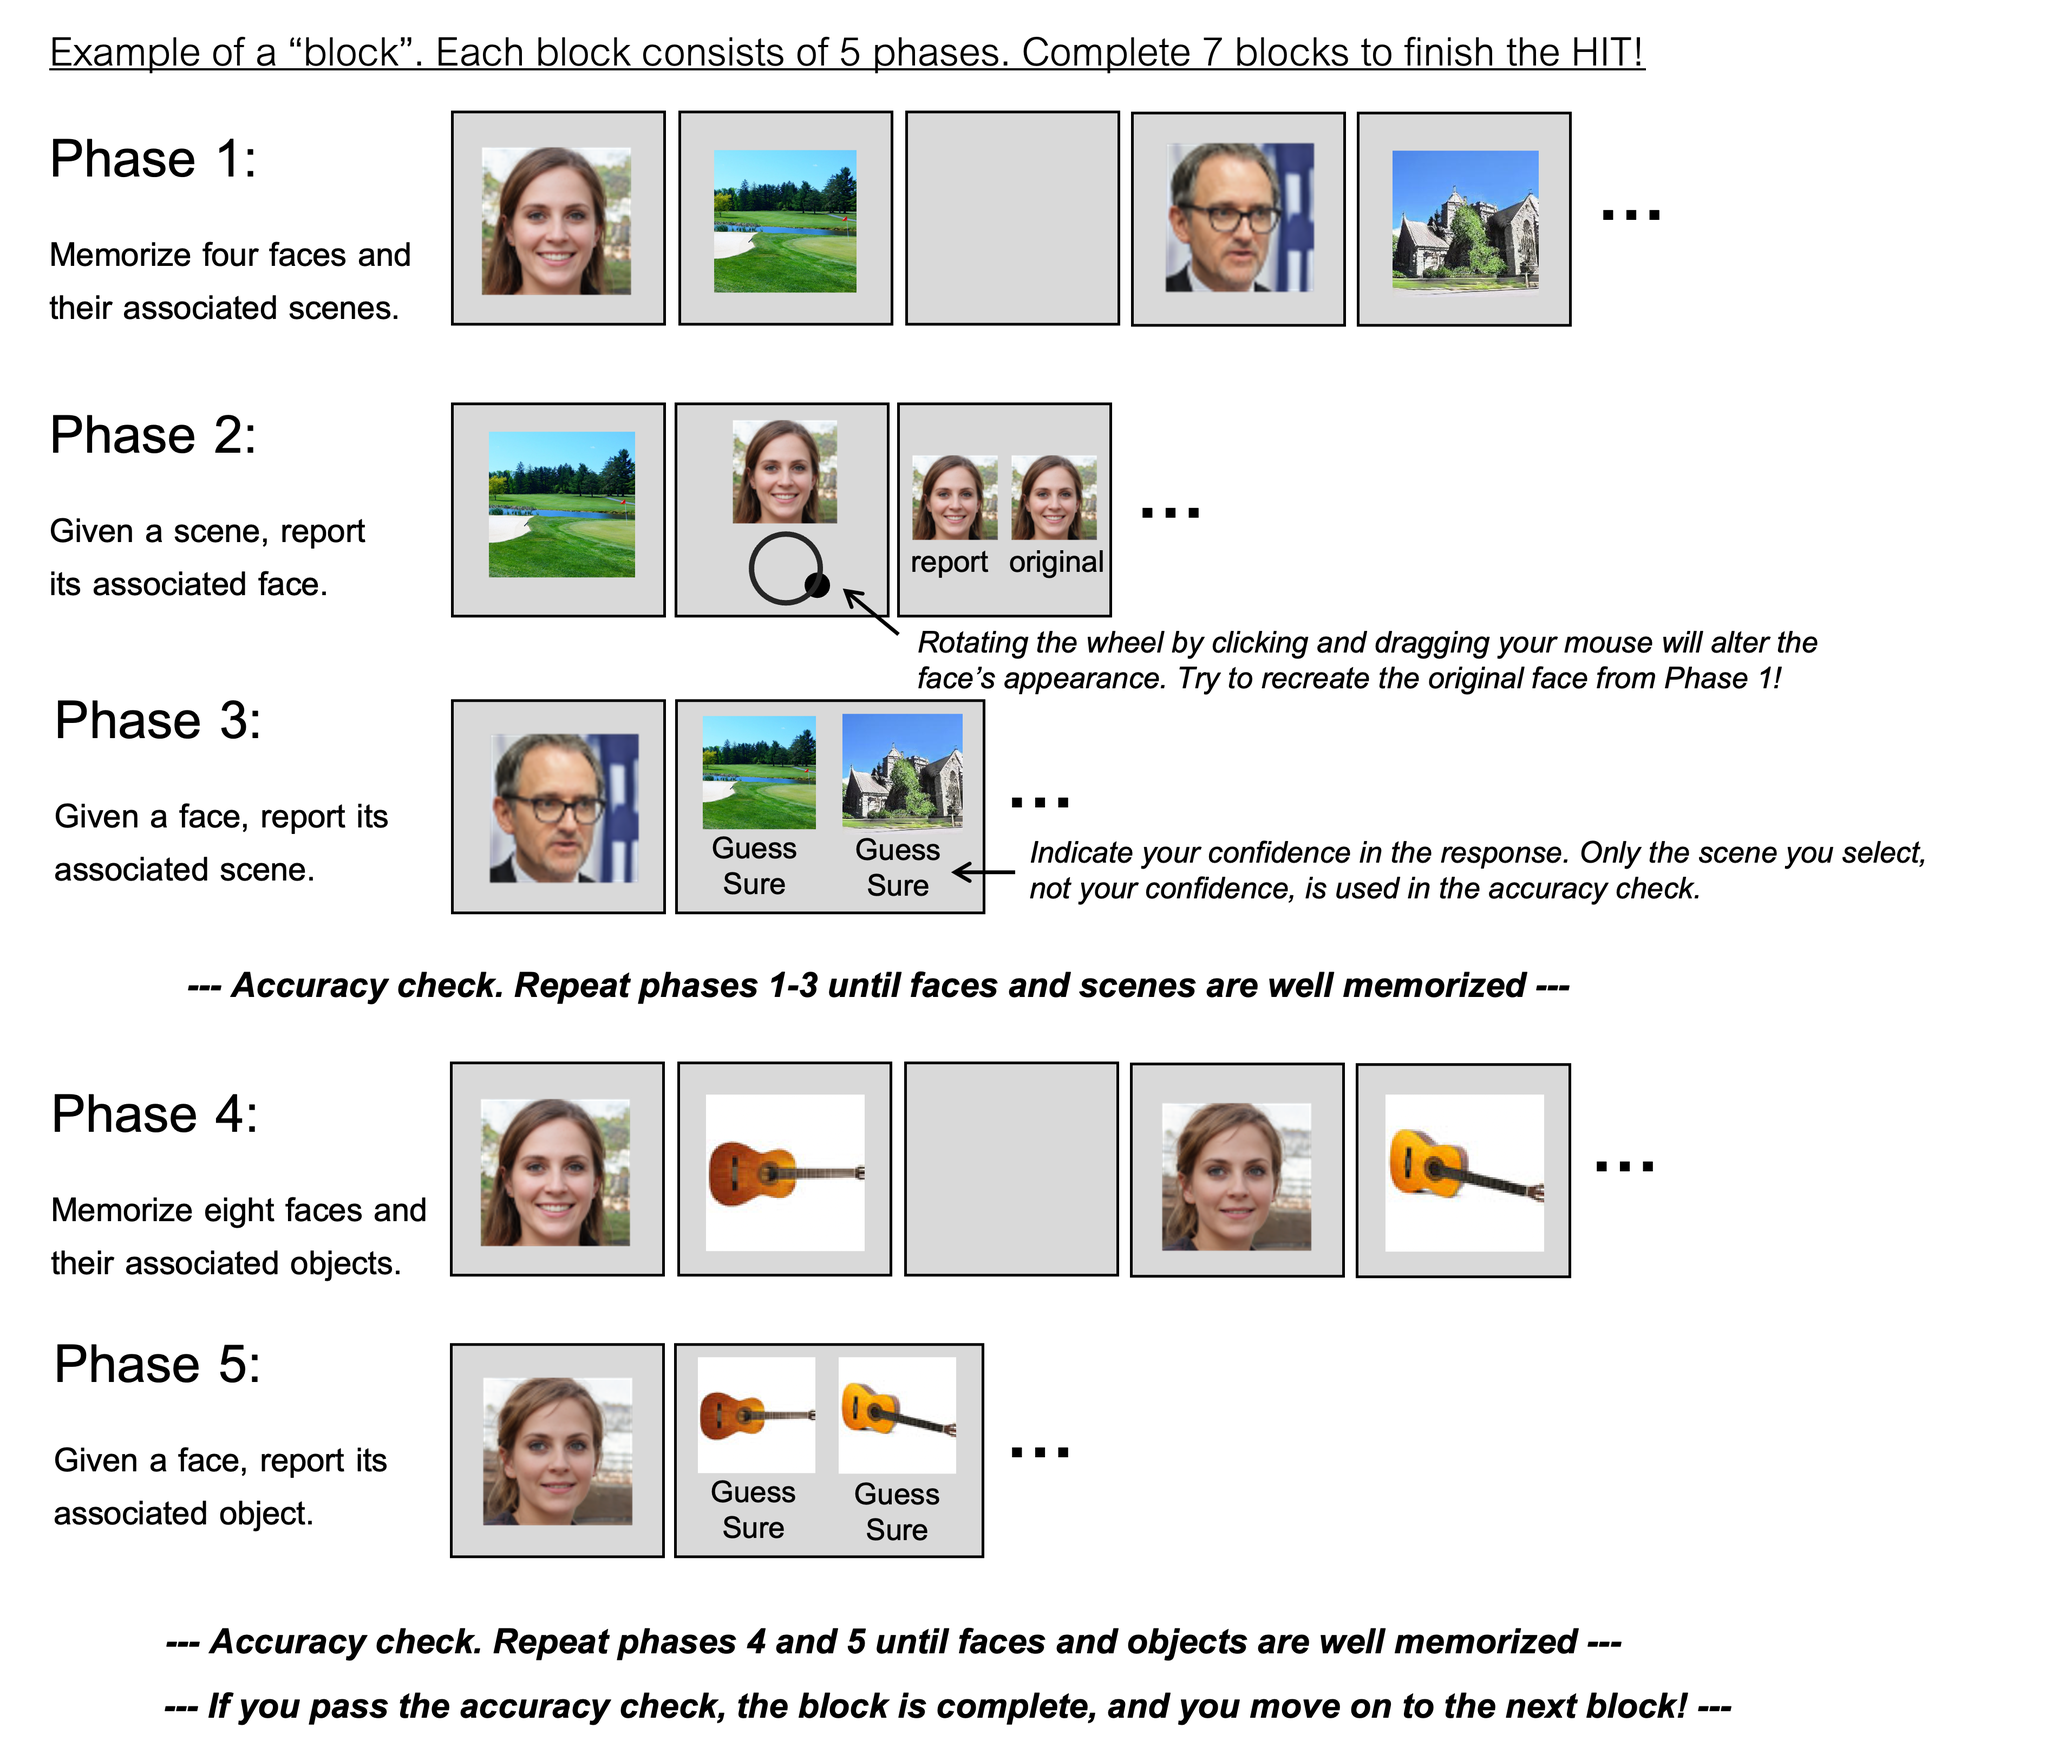
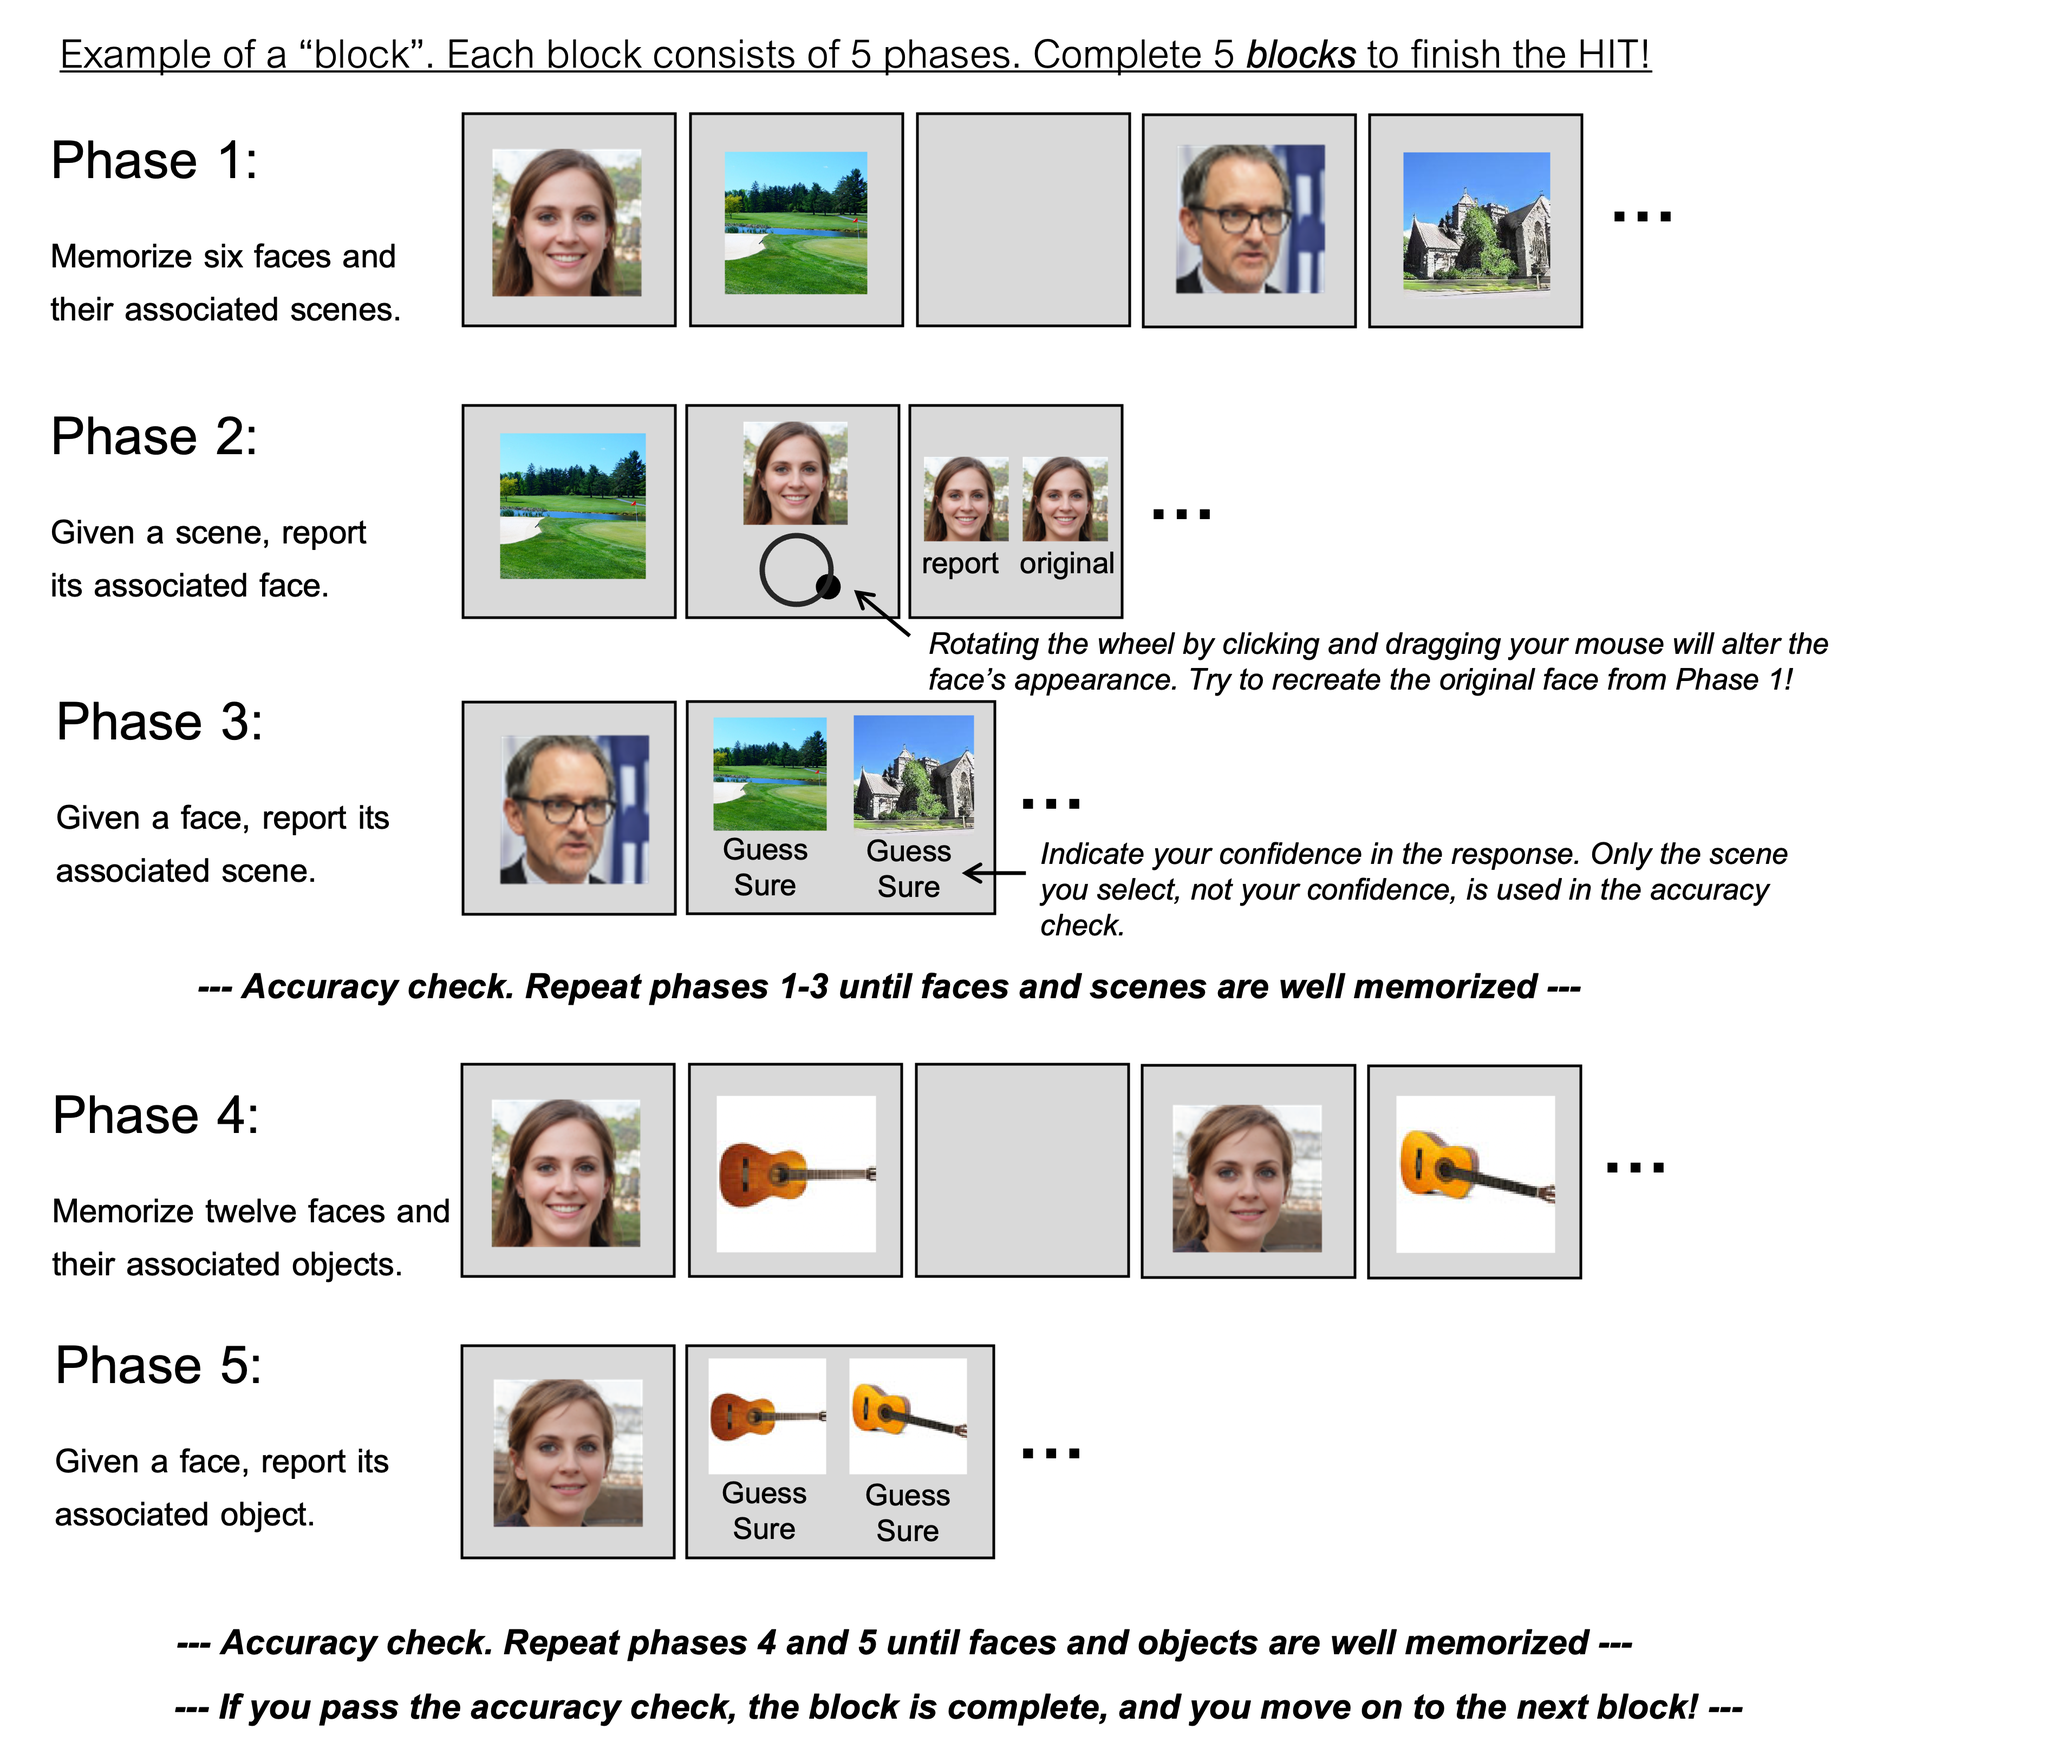
updated instructs

diff --git a/mturk/FaceRepulsion_turk/index.html b/mturk/FaceRepulsion_turk/index.html
@@ -39,8 +39,8 @@
       } else if (!(parseFloat($('#age').val()) >= 18)) {
         alert('Please input a valid age. You must be at least 18 years old to participate.')
       } else {
-        if ($('#age').val() > 35) {
-          $('body').html('<center><b>Unfortunately, this experiment does not allow participants over 35 years old (we separately study older populations).<br><br>Please return this HIT.<br><br>You will not be paid if you try again and change your age.</b></center>');
+        if (($('#age').val() > 35) || (document.getElementById('acuity').checked==false) || (document.getElementById('colorvision').checked==false)) {
+          $('body').html('<center><b>Unfortunately, this experiment does not allow participants over 35 years old (we separately study older populations) or participants lacking color vision or normal visual acuity.<br><br>Please return this HIT.<br><br>You will not be paid if you try again and change your responses.</b></center>');
         } else {
           $('#info').hide()
           document.body.scrollTop = document.documentElement.scrollTop = 0;
@@ -483,20 +483,6 @@
     </b></center>
   </div>
 
-  <!-- Instructions page4 -->
-  <!-- <div id="instructions4" style="display:none">
-    <center><b>
-        <p>Importantly, we want you to try to similarly exert effort to memorize all images, regardless of whether "remember" or "forget" appears after the image is presented.</p>
-        <p align="center"><img src="https://maxceylab.github.io/stimuli/instruction_images/fake_bars2.png" width="350px"></p>
-        <p>Try your best to have similar memory performance across "remember" and "forget" images, similar to the figure above.</p>
-        <p>You will receive a bonus of $1 if your accuracy for recognizing "remember" images is within 2% of your accuracy for "forget" images.<br>Note: You must also perform better than random chance in identifying images and their associated words in order to earn this bonus.</p>
-        <p>If your behavior is deemed obviously bot-like or noncompliant with instructions, such as always clicking the same button throughout memory testing, then your payment for the HIT may be denied.</p>
-      </b></center>
-    <p style="text-align: center"><a href="javascript:void(0);" onclick="$('#instructions4').hide();document.body.scrollTop = document.documentElement.scrollTop = 0;StartExperiment();" id="TextButton">Start Experiment</a></p>
-    <center>
-      <p id=loading>Images loading... Please wait a minute or refresh the page.</p>
-  </div> -->
-
   <!-- Subject info screen -->
   <div id="info" style='display:none; text-align: left; margin-left: 25%'>
     <h1>Subject Information</h1>
@@ -529,11 +515,10 @@
     let formtxt = "https://www.mturk.com/mturk/externalSubmit?assignmentId="+ASSIGNMENTID+"&foo=bar"
     document.getElementById('turkSubmit').action = formtxt
   </script>
-      <!-- submit to turk
-      https://workersandbox.mturk.com/mturk/externalSubmit
-      https://www.mturk.com/mturk/externalSubmit
-      -->
-
+  <!-- submit to turk
+  https://workersandbox.mturk.com/mturk/externalSubmit
+  https://www.mturk.com/mturk/externalSubmit
+  -->
   <!-- Screen after submitting expt -->
   <div id="done" style='display:none; text-align: left; margin-left: 25%'>
     <div id="doneText">
@@ -595,9 +580,9 @@
     var deg_corr = 999;
     var deg_rotation = 0;
     let curTrial = 0;
-    let numTrials = 4;
+    let numTrials = 6;
     let curBlock = 0;
-    let numBlocks = 7;
+    let numBlocks = 5;
     let displayTime = 1000; //1000
     let feedbackTime = 2000;
     let isi1Time = 200;
@@ -605,6 +590,7 @@
     var keyCode = 0;
     var cur_button = 0;
     var cur_phase = 0;
+    var block_tracker = [];
     var phase1_faces = [];
     var phase1_associates = [];
     var phase2_faces = [];
@@ -626,11 +612,9 @@
     var phase5_rts = [];
     var block_accuracy = 100;
     var block_binary = [];
-    var scene_loops = 0;
-    var obj_loops = 0;
     let start_time = 0;
 
-    var face_order_full = derange(counter(0,25)) // number of face triangles
+    var face_order_full = derange(counter(0,27)) // number of face triangles
     var scene_order_full = derange(counter(0,119))
     var obj_order_full = derange(counter(0,119))
 
@@ -667,13 +651,13 @@
       function checkFlag() {
         if (modalClosed == false) {
           window.setTimeout(checkFlag, 100); /* this checks the flag every 100 milliseconds*/
+        } else {
+          start_time = new Date();
+          updateProgress()
+          console.log("start!")
+          Phase1();
         }
       }
-
-      start_time = new Date();
-      updateProgress()
-      console.log("start!")
-      Phase1();
     }
 
     /* Phase 1: Face-Scene Study */
